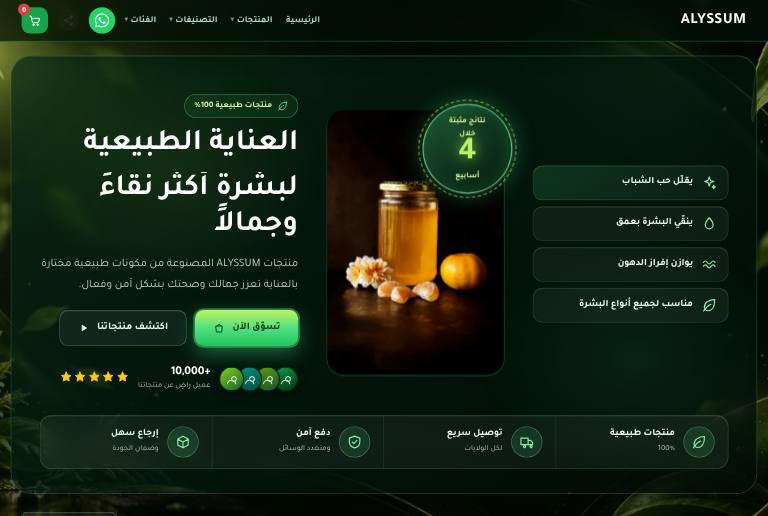
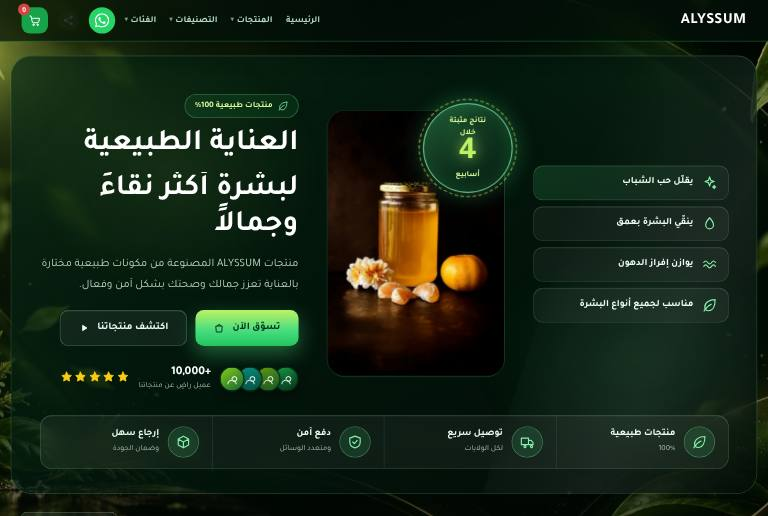
v1.51.2: خلفية الجوال لقالب أليسوم
Claude-Session: https://claude.ai/code/session_018PaJDUPtbAz51NfPkpNWed

diff --git a/admin.html b/admin.html
@@ -3,7 +3,7 @@
 <head>
 <meta charset="UTF-8">
 <meta name="viewport" content="width=device-width, initial-scale=1.0">
-<meta name="admin-version" content="1.51.1">
+<meta name="admin-version" content="1.51.2">
 <title>لوحة التحكم — أليسوم</title>
 <link rel="preconnect" href="https://fonts.googleapis.com">
 <link href="https://fonts.googleapis.com/css2?family=Cairo:wght@400;700;800;900&display=swap" rel="stylesheet">
@@ -1540,12 +1540,12 @@ document.addEventListener("keydown", e=>{ if(e.key === "Escape") SitePreview.clo
 <script src="assets/js/chrome.js?v=9"></script>
 <script src="assets/js/modern-icons.js?v=1.28.3"></script>
 <script>document.addEventListener("DOMContentLoaded",function(){try{ModernIcons.style();ModernIcons.watch({skip:"#pbx-frame,.pbx-ip .g,[data-keep-emoji]"})}catch(e){}})</script>
-<script src="assets/js/ctl-help.js?v=1.51.1"></script>
-<script src="assets/js/chrome-admin.js?v=1.51.1"></script>
-<script src="assets/js/admin-assistant.js?v=1.51.1"></script>
+<script src="assets/js/ctl-help.js?v=1.51.2"></script>
+<script src="assets/js/chrome-admin.js?v=1.51.2"></script>
+<script src="assets/js/admin-assistant.js?v=1.51.2"></script>
 <script src="assets/js/img-gen.js?v=1.51.0"></script>
-<script src="assets/js/admin-nav.js?v=1.51.1"></script>
-<script src="assets/js/admin-update.js?v=1.51.1"></script>
+<script src="assets/js/admin-nav.js?v=1.51.2"></script>
+<script src="assets/js/admin-update.js?v=1.51.2"></script>
 <script src="assets/js/ai-vision.js?v=51"></script>
 <script src="assets/js/avatar-script.js"></script>
 <script src="assets/js/wilayas.js"></script>

diff --git a/assets/js/admin-nav.js b/assets/js/admin-nav.js
@@ -62,7 +62,7 @@ const AdminNav = (() => {
     { id: "o-trust", cat: "order", fld: "صحة وعسل", n: "ضمانات + شارات ثقة + نموذج الطلب", d: "بطاقات الدفع عند الاستلام والتوصيل ثم شارات الثقة ونموذج الطلب.", b: dflt(["assure", "trust", "order"]) },
     { id: "p-focus-honey", cat: "page", fld: "صحة وعسل", n: "هبوط: عسل التركيز", d: "صفحة هبوط كاملة مبنية بعناصر المطوّر على نمط التصميم المرجعي.", file: "focus-honey" }
   ];
-  const LS = { cat: "all", fld: "all" }; let LIBX = null; const V = "1.51.1";
+  const LS = { cat: "all", fld: "all" }; let LIBX = null; const V = "1.51.2";
   async function libLoad() { if (LIBX) return; LIBX = []; try { const r = await fetch("assets/pages/templates/index.json?v=" + Date.now(), { cache: "no-store" }); if (r.ok) LIBX = (await r.json()).map(x => Object.assign({ file: x.id, adv: true }, x)); } catch (e) { } }
   function libAll() { return LIB.concat(LIBX || []); }
   async function libOpen() { await libLoad(); LS.cat = "all"; LS.fld = "all"; let m = $("tl-lib"); if (!m) { m = document.createElement("div"); m.id = "tl-lib"; m.onclick = e => { if (e.target === m) libClose(); }; document.body.appendChild(m); } m.style.display = "flex"; libDraw(); }

diff --git a/scripts/gen-templates-alyssum.py b/scripts/gen-templates-alyssum.py
@@ -28,7 +28,7 @@ html{background:#020a06!important}
 body,.pb-page{background:transparent!important;color:#e7f5ec}
 body::before{content:"";position:fixed;inset:-2%;z-index:-2;pointer-events:none;background:linear-gradient(180deg,rgba(2,10,6,.18),rgba(2,10,6,.5)),url(/assets/img/tpl/alyssum-bg.webp) center/cover no-repeat;animation:alyAur 26s ease-in-out infinite alternate}
 @keyframes alyAur{to{transform:scale(1.06) translateY(-8px)}}
-@media(max-width:767px){body::before{background-position:left center,left center}}
+@media(max-width:767px){body::before{background:linear-gradient(180deg,rgba(2,10,6,.12),rgba(2,10,6,.4)),url(/assets/img/tpl/alyssum-bg-m.webp) center/cover no-repeat}}
 .pb-sec{position:relative}
 .aly-pill{display:inline-flex;align-items:center;gap:8px;padding:8px 16px;border-radius:999px;background:rgba(21,128,61,.18);border:1px solid rgba(134,239,172,.4);color:#d9f99d;font-weight:800;font-size:14px;backdrop-filter:blur(10px)}
 .aly-pill svg{width:18px;height:18px;color:#86efac}

diff --git a/assets/img/tpl/CREDITS.md b/assets/img/tpl/CREDITS.md
@@ -2,4 +2,4 @@
 صور فوتوغرافية مجانية للاستعمال التجاري من Unsplash (Unsplash License — لا يلزم الإسناد)، محفوظة محلياً بصيغة webp. تُجلب بـ`python3 scripts/fetch-template-images.py`.
 شروط صاحب المتجر لأي صورة جديدة: بلا علامات مائية أو شعارات مواقع/علامات تجارية ظاهرة، ولا امرأة بلا خمار، ولا جزء عارٍ من الجسم غير الوجه واليدين. تُستبدل بصور المتجر الحقيقية من المحرّر.
 
-- `alyssum-bg.webp`: خلفية قالب أليسوم، مولَّدة بالذكاء الاصطناعي (Gemini) بطلب صاحب المتجر؛ بلا علامات مائية.
+- `alyssum-bg.webp` و`alyssum-bg-m.webp` (الجوال): خلفية قالب أليسوم، مولَّدة بالذكاء الاصطناعي (Gemini) بطلب صاحب المتجر؛ بلا علامات مائية.
